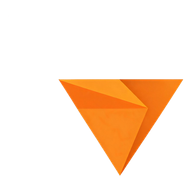
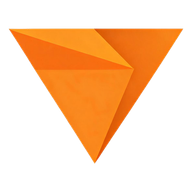
feat: 优化应用图标设计

diff --git a/frontend/scripts/generate-icons.js b/frontend/scripts/generate-icons.js
@@ -1,13 +1,16 @@
 import { createRequire } from 'module';
 const require = createRequire(import.meta.url);
 const sharp = require('/root/.nvm/versions/node/v24.1.0/lib/node_modules/sharp');
+import { readFileSync, writeFileSync, copyFileSync } from 'fs';
 
-// PNG 源图：AI 生成的带渐变细节的原图（1024x1024），往下缩到各尺寸
+// PNG 源图：AI 生成的带渐变细节的原图
 const sourceImage = '../.scratch/icon-design-4.jpg';
 
-const pngSizes = [
-  { name: 'favicon-16x16.png', size: 16 },
-  { name: 'favicon-32x32.png', size: 32 },
+// SVG 源文件：简化几何版，用于小尺寸 favicon
+const svgPath = './public/favicon.svg';
+
+// 大尺寸 PNG：从 AI 原图去背景往下缩
+const largePngSizes = [
   { name: 'apple-touch-icon.png', size: 180 },
   { name: 'pwa-192x192.png', size: 192 },
   { name: 'pwa-512x512.png', size: 512 },
@@ -18,13 +21,49 @@ const pngSizes = [
  * 去除白色背景，裁剪到内容区域，居中到正方形透明画布
  */
 async function removeWhiteBackgroundAndCrop(inputBuffer, padding = 0.1) {
-  // 使用 sharp 内置 trim 自动裁剪白色背景
-  let trimmed = await sharp(inputBuffer).trim(20).toBuffer();
-  const meta = await sharp(trimmed).metadata();
-  const cropW = meta.width;
-  const cropH = meta.height;
+  const withAlpha = await sharp(inputBuffer).ensureAlpha().toBuffer();
+  const { data, info } = await sharp(withAlpha).raw().toBuffer({ resolveWithObject: true });
+  const w = info.width, h = info.height, ch = info.channels;
 
-  // 居中到正方形透明画布，留出 padding
+  // 找到非白色像素的边界框（忽略边缘 JPEG 噪点）
+  let minX = w, minY = h, maxX = 0, maxY = 0;
+  const threshold = 230;
+  const edgeMargin = 20; // 忽略边缘 20px 内的噪点
+
+  // 第一遍：标记透明/不透明
+  for (let y = 0; y < h; y++) {
+    for (let x = 0; x < w; x++) {
+      const i = (y * w + x) * ch;
+      const brightness = (data[i] + data[i + 1] + data[i + 2]) / 3;
+      data[i + 3] = brightness <= threshold ? 255 : 0;
+    }
+  }
+
+  // 第二遍：找边界框，忽略边缘区域
+  for (let y = edgeMargin; y < h - edgeMargin; y++) {
+    for (let x = edgeMargin; x < w - edgeMargin; x++) {
+      const i = (y * w + x) * ch;
+      if (data[i + 3] === 255) {
+        if (x < minX) minX = x;
+        if (y < minY) minY = y;
+        if (x > maxX) maxX = x;
+        if (y > maxY) maxY = y;
+      }
+    }
+  }
+
+  const cropW = maxX - minX + 1;
+  const cropH = maxY - minY + 1;
+
+  // 裁剪内容
+  const croppedBuf = await sharp(data, {
+    raw: { width: w, height: h, channels: ch },
+  })
+    .extract({ left: minX, top: minY, width: cropW, height: cropH })
+    .png()
+    .toBuffer();
+
+  // 居中到正方形透明画布
   const pad = Math.round(Math.max(cropW, cropH) * padding);
   const squareSize = Math.max(cropW, cropH) + pad * 2;
   const offsetX = Math.round((squareSize - cropW) / 2);
@@ -38,37 +77,45 @@ async function removeWhiteBackgroundAndCrop(inputBuffer, padding = 0.1) {
       background: { r: 0, g: 0, b: 0, alpha: 0 },
     },
   })
-    .composite([{ input: trimmed, left: offsetX, top: offsetY }])
+    .composite([{ input: croppedBuf, left: offsetX, top: offsetY }])
     .png()
     .toBuffer();
 }
 
 async function generateIcons() {
-  // 先放大处理背景 + 裁剪 + 居中到正方形，再缩小到目标尺寸
+  // 大尺寸 PNG：从 AI 原图去背景 + 居中 + 往下缩
   const processed = await removeWhiteBackgroundAndCrop(
     await sharp(sourceImage).resize(2048, 2048).png().toBuffer(),
-    0.05 // 5% 留白，让图标在小尺寸下更大
+    0.05
   );
 
-  // 从处理后的透明图往下缩生成 PNG
-  for (const { name, size } of pngSizes) {
-    await processed
-      .clone()
+  for (const { name, size } of largePngSizes) {
+    await sharp(processed)
       .resize(size, size)
       .png()
       .toFile(`./public/${name}`);
     console.log(`✓ Generated ${name} (${size}x${size})`);
   }
 
-  // favicon.svg 由开发者手动维护（简化几何版）
-  console.log('✓ favicon.svg (保持手动维护的简化版)');
+  // 小尺寸 favicon：直接用 SVG（矢量，小尺寸更清晰）
+  // favicon-16x16.png 和 favicon-32x32.png 从 SVG 渲染
+  const svg = readFileSync(svgPath, 'utf-8');
+  for (const size of [16, 32]) {
+    await sharp(Buffer.from(svg))
+      .resize(size, size)
+      .png()
+      .toFile(`./public/favicon-${size}x${size}.png`);
+    console.log(`✓ Generated favicon-${size}x${size}.png (from SVG)`);
+  }
 
-  // favicon.ico 从 32x32 PNG 生成
-  await sharp('./public/favicon-32x32.png')
+  // favicon.ico 从 SVG 渲染
+  await sharp(Buffer.from(svg))
     .resize(32, 32)
     .png()
     .toFile('./public/favicon.ico');
-  console.log('✓ Generated favicon.ico (32x32)');
+  console.log('✓ Generated favicon.ico (from SVG)');
+
+  console.log('✓ favicon.svg (保持手动维护的简化几何版)');
 }
 
 generateIcons().catch(console.error);
